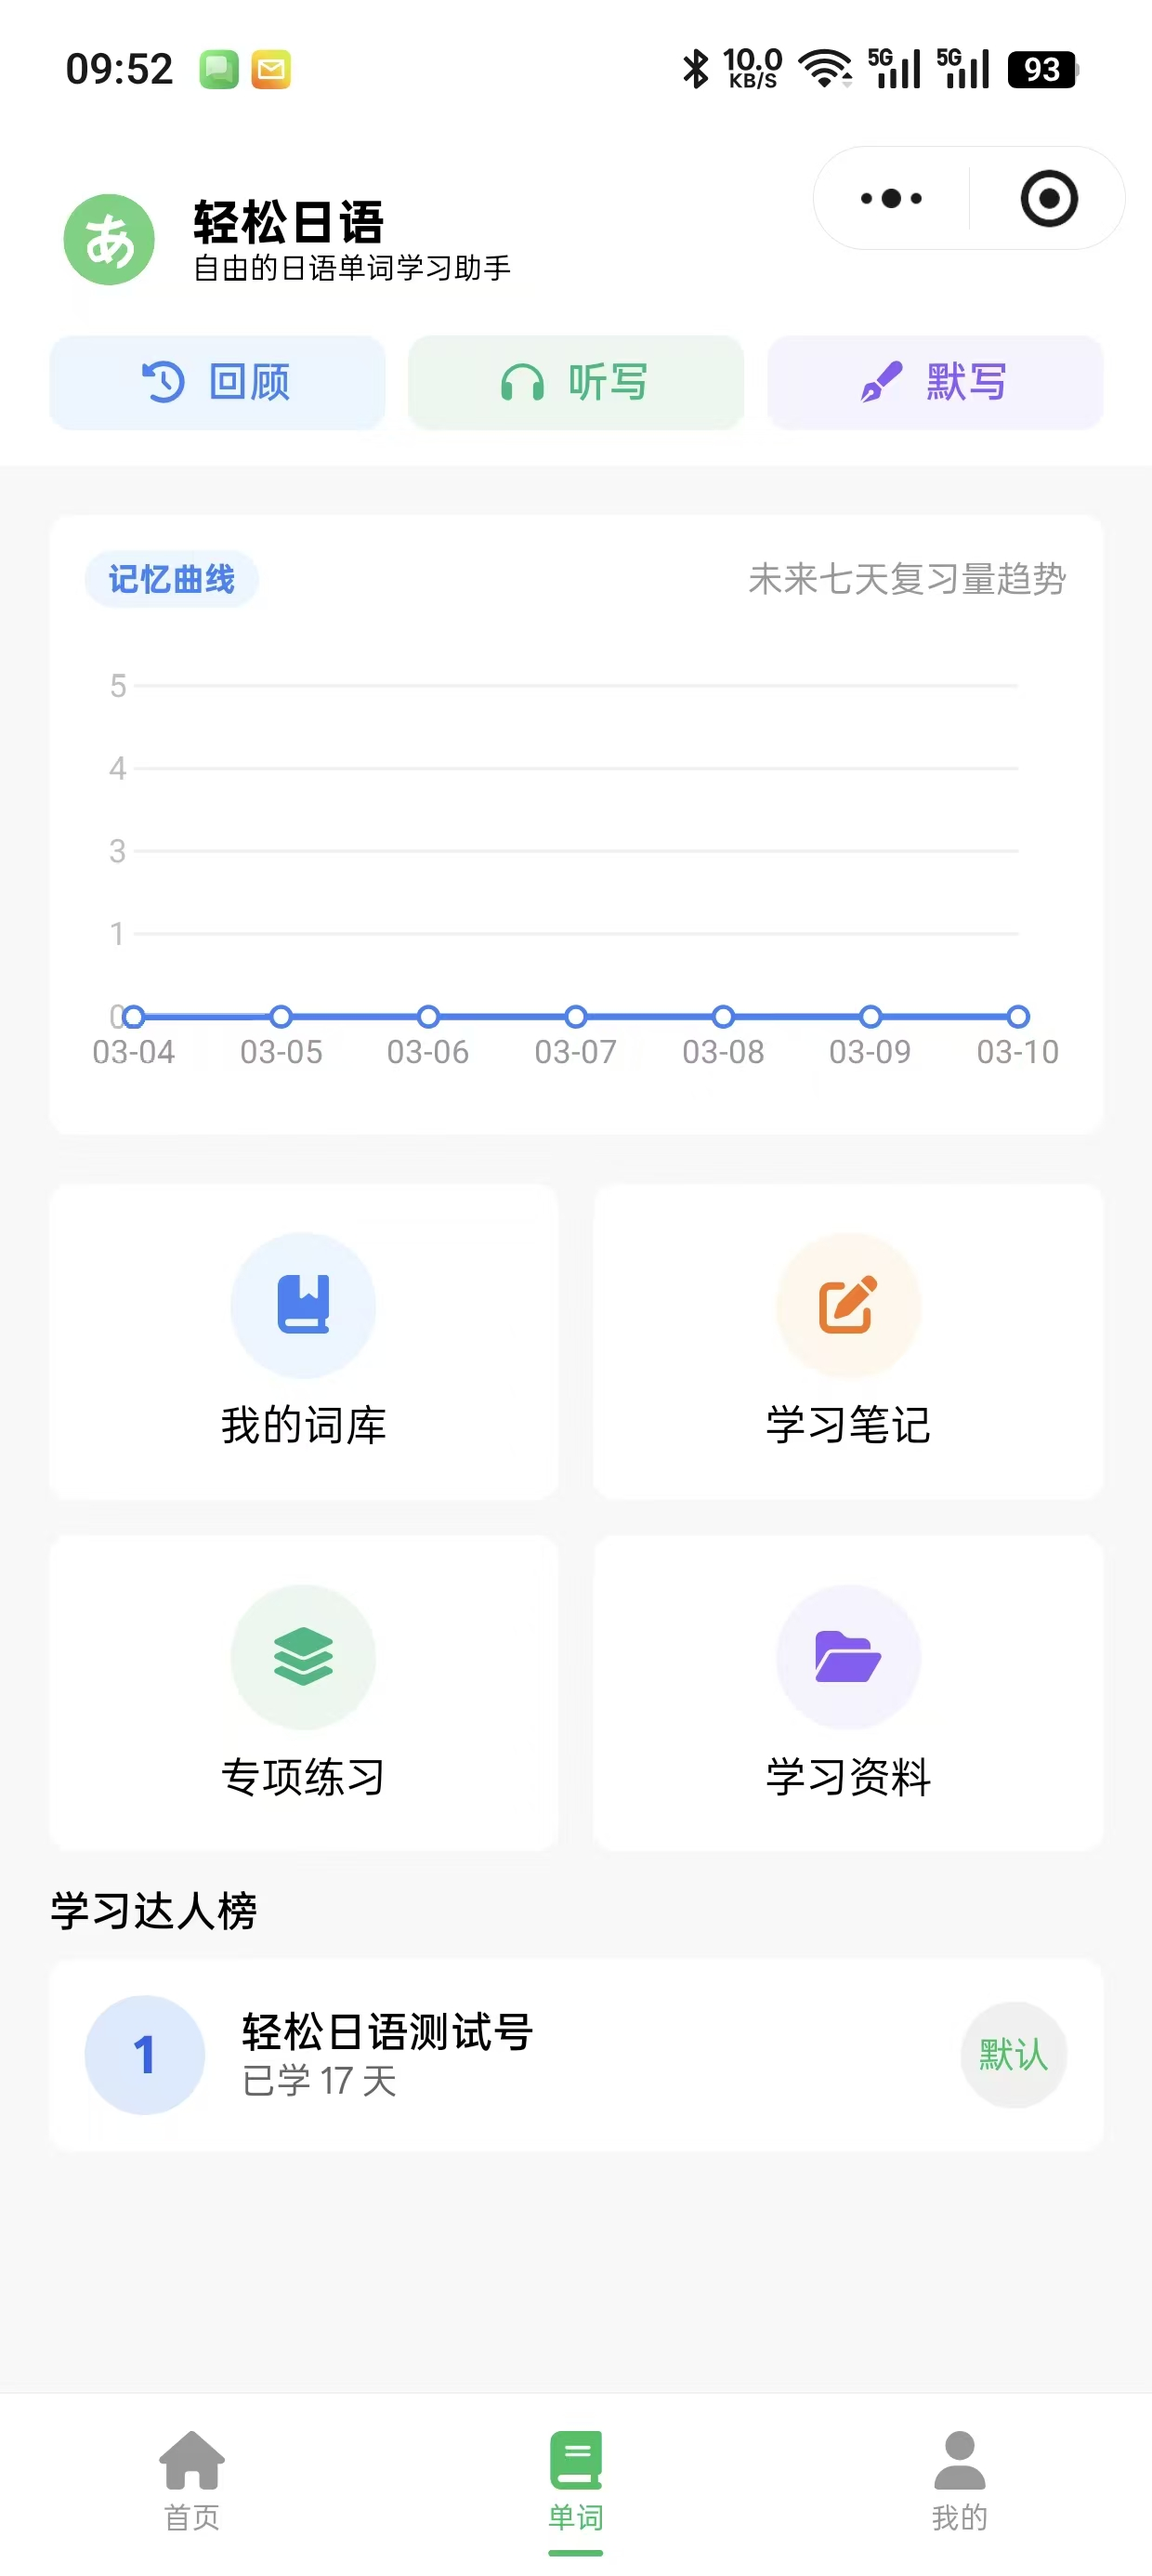
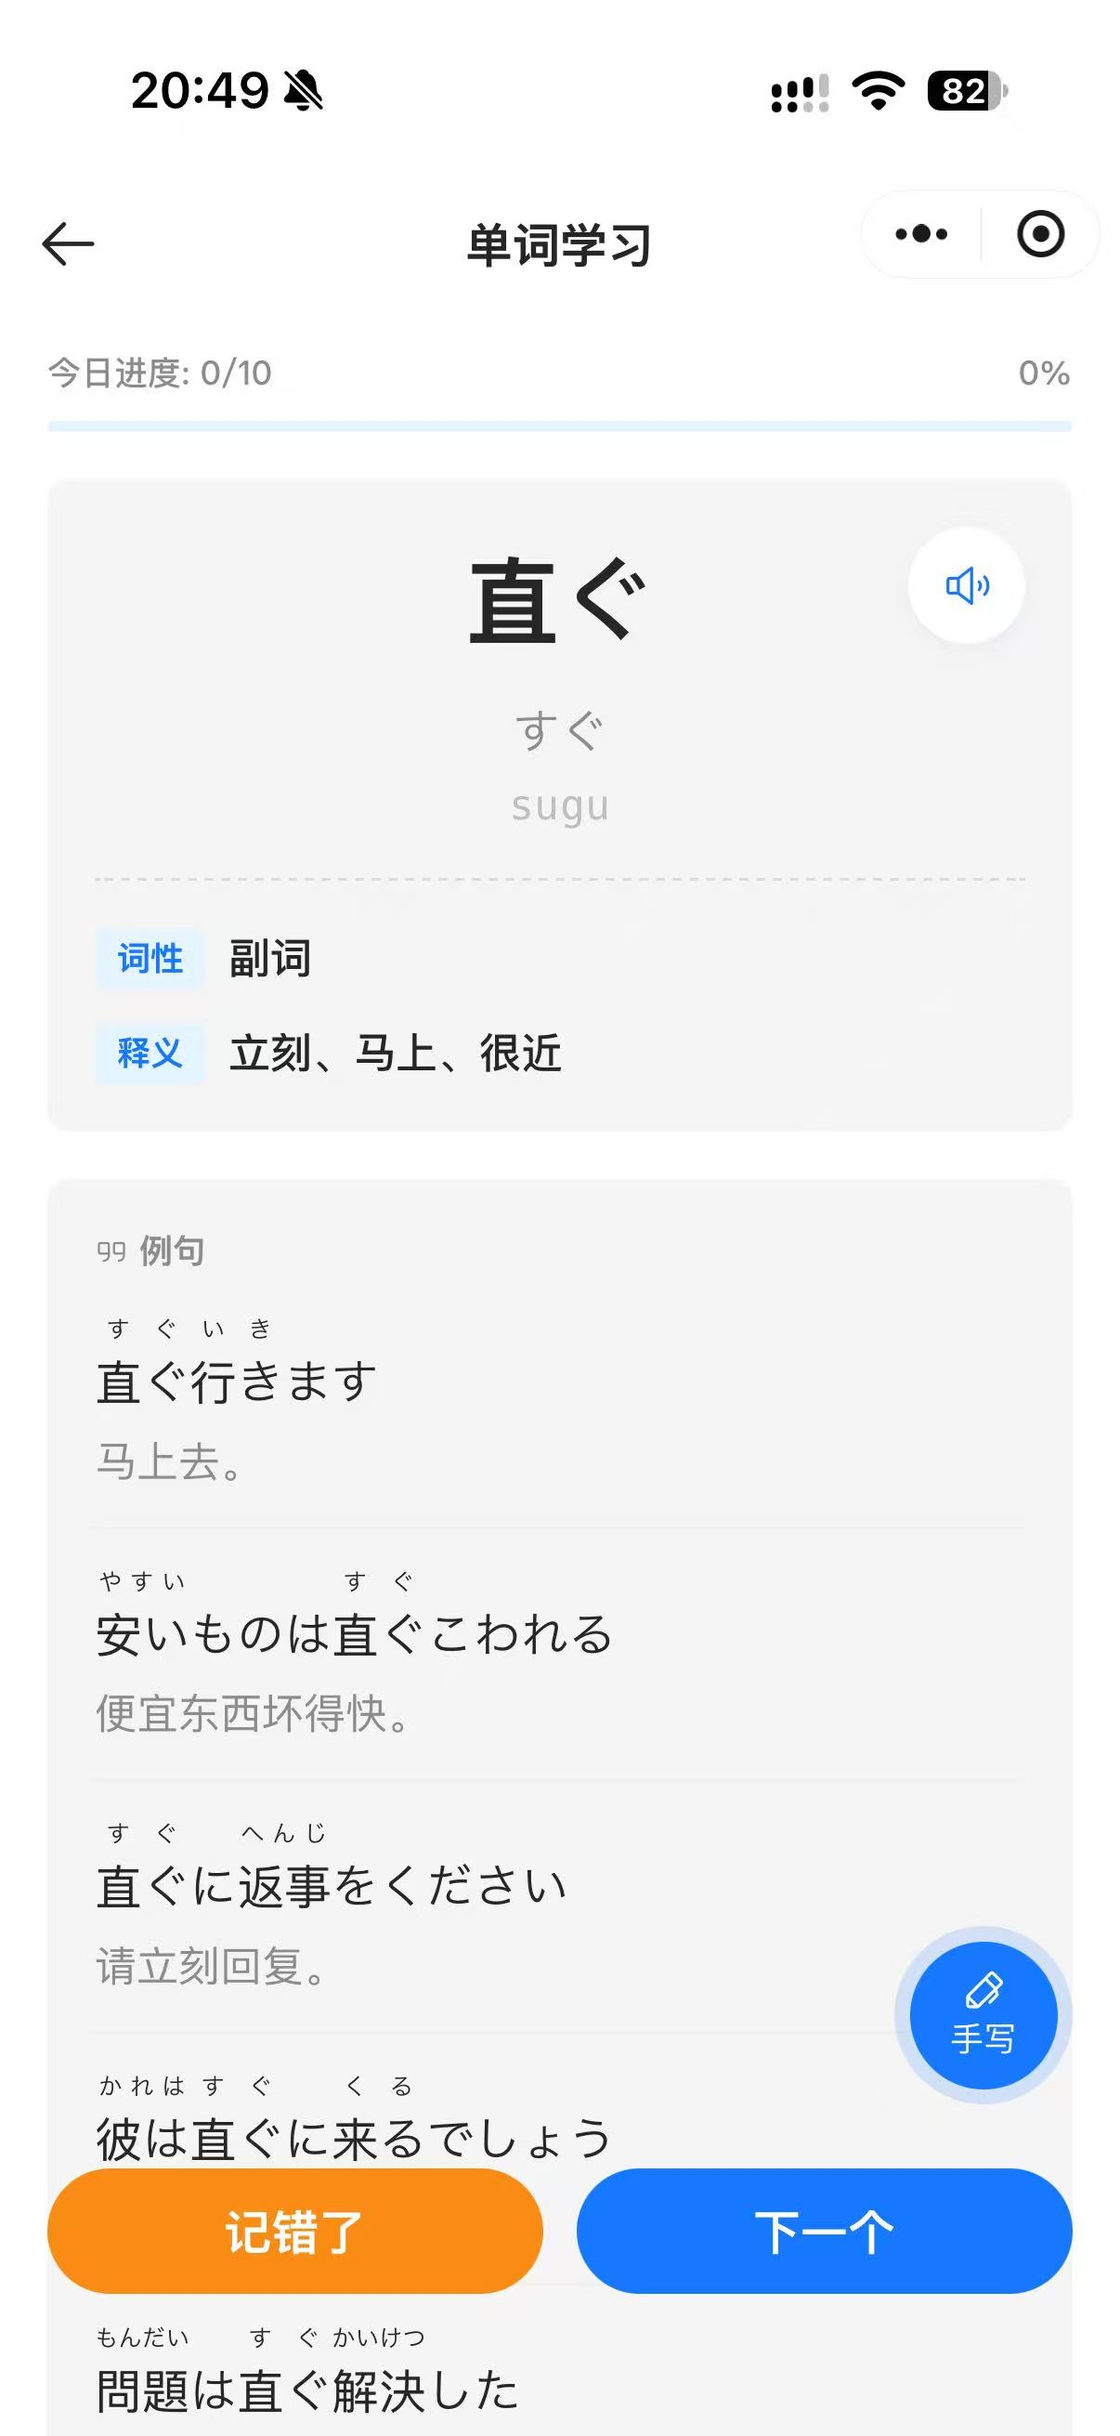
更新个人简历

diff --git a/.dumirc.ts b/.dumirc.ts
@@ -11,26 +11,25 @@ export default defineConfig({
     socialLinks: {
       github: 'https://github.com/x2ink',
     },
-    nav: [
-      {
-        title: '博客',
-        link: '/blogs'
-      },
-      {
-        title: '产品',
-        link: '/product'
-      }
+    nav: [{
+      title: '简历',
+      link: '/vitae'
+    }
+      , {
+      title: '作品',
+      link: '/opus'
+    },
+    {
+      title: '博客',
+      link: '/blogs'
+    },
+    {
+      title: '产品',
+      link: '/product'
+    }
     ]
   },
 })
   ;
 
 
-// {
-//   title: '简历',
-//   link: '/vitae'
-// }
-// , {
-//   title: '作品',
-//   link: '/opus'
-// }, 

diff --git a/docs/vitae/index.md b/docs/vitae/index.md
@@ -12,11 +12,11 @@ title: 软件工程师
 - **毕业院校**: 安徽理工大学（本科）
 - **所学专业**: 数字媒体技术
 - **获得证书**: 大学英语四级，大学日语四级
-- **求职意向**: 前端开发工程师、Android 开发工程师
+- **求职意向**: 软件开发工程师、前端开发工程师、Android 开发工程师
 
 ## 个人简介
 
-&nbsp;&nbsp;&nbsp;&nbsp;&nbsp;&nbsp;数字媒体技术专业本科毕业，专注于前端与移动端应用开发。具备扎实的计算机科学基础，精通 Vue、React、Uniapp 等主流前端框架，能够高效构建响应式网页及小程序。同时拥有 Android 原生（Java/Kotlin）开发能力，熟悉 Android 四大组件与系统底层机制，擅长“原生 + H5”混合开发及跨端解决方案。具备良好的工程化思维与代码规范，熟练使用 Git 进行团队协作，学习能力强，能够快速适应新技术栈，致力于打造极致的用户体验。
+&nbsp;&nbsp;&nbsp;&nbsp;&nbsp;&nbsp;数字媒体技术专业本科毕业，专注于前端与移动端应用开发。具备扎实的计算机科学基础，熟悉 Vue、React、Uniapp 等主流前端框架，能够高效构建响应式网页及小程序。同时拥有 Android 原生（Java/Kotlin）开发能力，熟悉 Android 四大组件与系统底层机制，擅长“原生 + H5”混合开发及跨端解决方案。具备良好的工程化思维与代码规范，熟练使用 Git 进行团队协作，学习能力强，能够快速适应新技术栈，致力于打造极致的用户体验。
 
 ## 专业技能
 
@@ -24,15 +24,16 @@ title: 软件工程师
 - 掌握 JavaScript，理解原型，闭包，异步等概念，熟练使用 ES6+ 语法，熟悉常用设计模式。
 - 掌握 Vue、React、Uniapp、Jquery 进行项目开发，会使用 CSS 预处理语言及相关技术栈。
 - 熟悉使用 Bootstrap、Element、AntDesign、uView 等组件库，高效构建用户界面。
-- 熟悉 Android 系统控件及自定义控件，熟悉 MVC，MV，MVVM 等设计模式，理解 Android 四大组件、生命周期、消息机制、多线程开发等；具有扎实的 Java/Kotlin 语言基础。
+- 熟悉 Android 应用开发，掌握 Activity、Service、BroadcastReceiver 等常用组件及生命周期、消息机制、多线程开发，具备扎实的 Java/Kotlin 基础。
+- 熟悉 MVVM、MVI、Clean Architecture 等常用 Android 架构模式，了解分层设计、模块化开发、Repository、UseCase 等常见设计方式，能够根据项目规模进行合理的代码结构设计。
+- 熟悉 Android 音视频开发，具备 Media3、ExoPlayer 等媒体框架的实际开发经验，了解 AudioRecord、AudioTrack 等音频采集与播放相关 API。
 - 掌握 WebView 与 Native 通信机制 (JSBridge)，具备使用 uniapp 进行跨端开发的能力；熟练掌握 Git 版本管理具备团队协作开发的能力。
-- 熟练使用 Android Studio、VS Code、Chrome DevTools、Postman、Proxyman 等各种主流工具开发与调试。
 
 ## 工作经历
 
 ### 墨墨无闻（安徽）科技有限公司 - Python 兼职
 
-**2023 年 11 月-2024 年 6 月**
+**2023 年 11 月 - 2024 年 6 月**
 
 - 使用 Python 爬虫对目标网站数据进行爬取，并将处理后的数据存储在数据库中。
 - 使用 Selenium 实现自动化爬取网站数据。
@@ -41,12 +42,18 @@ title: 软件工程师
 
 ### 上海万笔千墨科技有限公司 - 软件工程师
 
-**2024 年 10 月-至今**
+**2024 年 7 月 - 2026 年 3 月**
 
 - 主要负责开发微信小程序，网页，App 等前端工作。
 - 使用 android 独立完成一体机 App 的开发与维护。
 - 使用 uniapp，vue，react 等框架完成微信小程序，网页的开发与维护。
 - 使用 mysql，linux 等技术对测试工作的支持。
+
+### 上海极豆科技有限公司 - 安卓开发工程师
+
+**2026 年 4 月 - 至今**
+
+- 负责智能座舱车机应用的研发，负责车机媒体生态、系统级应用（Launcher / 语音助手）的研发，以及网易云音乐、QQ 音乐、Spotify、小红书、腾讯导航等第三方服务的车机集成适配。
 
 ## 自我评价
 

diff --git a/docs/index.md b/docs/index.md
@@ -202,10 +202,8 @@ features: []
   width: 80px;
   height: 80px;
   border-radius: 20px;
+  overflow: hidden;
   margin-bottom: 24px;
-  background: white;
-  padding: 10px;
-  box-sizing: border-box;
   animation: float 6s ease-in-out infinite;
   box-shadow: 0 10px 20px rgba(0,0,0,0.05);
 }
@@ -328,12 +326,12 @@ features: []
     <div class="product-showcase">
       <div class="product-content">
         <div class="product-logo">
-          <img src="/other/easyjapanese.png" style="width: 100%; height: 100%; object-fit: contain;" alt="logo" />
+          <img src="/easyjapanese/easyjapanese.png" style="width: 100%; height: 100%;" alt="logo" />
         </div>
-        <div class="product-title">轻松日语</div>
+        <div class="product-title">随身日语</div>
         <div class="product-desc">
-          专注于日语单词学习与记忆的微信小程序。<br>
-          抛弃繁杂的功能，回归语言学习的本质，力求打造最自由、最轻量的日语词典体验。
+          专注于日语学习与单词记忆的微信小程序。<br>
+          抛弃繁杂的功能，回归语言学习的本质，力求打造最自由、最轻量的日语学习体验。
         </div>
         <a href="/opus/easyjapanese" class="product-btn">
           立即体验
@@ -342,10 +340,10 @@ features: []
       </div>
       <div class="product-visual">
         <div class="phone-mockup phone-secondary">
-           <img src="/easyjapanese/2.jpg" alt="App Screenshot 2">
+           <img src="/easyjapanese/2.png" alt="App Screenshot 2">
         </div>
         <div class="phone-mockup phone-primary">
-           <img src="/easyjapanese/1.jpg" alt="App Screenshot 1">
+           <img src="/easyjapanese/1.png" alt="App Screenshot 1">
         </div>
       </div>
     </div>

diff --git a/docs/product/user_agreement.md b/docs/product/user_agreement.md
@@ -1,6 +1,6 @@
 # 用户服务条款
 
-欢迎使用“轻松日语”应用程序（以下简称“本应用”）。在注册、登录、访问或使用本应用提供的服务前，请您务必仔细阅读并充分理解本《用户服务条款》。如您不同意本条款的任意内容，请您立即停止使用本应用；您一旦开始使用，即视为您已阅读、理解并同意本条款。
+欢迎使用“随身日语”应用程序（以下简称“本应用”）。在注册、登录、访问或使用本应用提供的服务前，请您务必仔细阅读并充分理解本《用户服务条款》。如您不同意本条款的任意内容，请您立即停止使用本应用；您一旦开始使用，即视为您已阅读、理解并同意本条款。
 
 ## 一、服务内容
 
@@ -45,7 +45,7 @@
 
 # 隐私政策
 
-本隐私协议旨在说明“轻松日语”如何收集、使用、存储与保护您的信息。本应用严格遵守国家法律法规，尽力保障用户隐私与数据安全。
+本隐私协议旨在说明“随身日语”如何收集、使用、存储与保护您的信息。本应用严格遵守国家法律法规，尽力保障用户隐私与数据安全。
 
 ## 一、收集的信息范围
 

diff --git a/docs/product/read_agreement.md b/docs/product/read_agreement.md
@@ -2,7 +2,7 @@
 
 > 生效日期：2025 年 11 月 29 日
 
-欢迎使用“轻松日语”提供的语音录制、上传与日语跟读功能（下称**“本功能”**）。为保障用户及平台权益、遵守中国大陆地区相关法律法规，请在使用前认真阅读并充分理解本协议全部条款，特别是以 **标红或加粗** 形式提示的重要内容。
+欢迎使用“随身日语”提供的语音录制、上传与日语跟读功能（下称**“本功能”**）。为保障用户及平台权益、遵守中国大陆地区相关法律法规，请在使用前认真阅读并充分理解本协议全部条款，特别是以 **标红或加粗** 形式提示的重要内容。
 
 ---
 

diff --git a/docs/opus/easyjapanese.md b/docs/opus/easyjapanese.md
@@ -1,4 +1,4 @@
-# 轻松日语
+# 随身日语
 
 ## 体验地址
 
@@ -11,8 +11,8 @@
 ## 作品截图
 
 <div style="display: grid; grid-template-columns: repeat(4, 1fr); gap: 10px; width: 100%;">
-    <img src="/easyjapanese/1.jpg" alt="" style="width: 100%; height: auto;">
-    <img src="/easyjapanese/2.jpg" alt="" style="width: 100%; height: auto;">
+    <img src="/easyjapanese/1.png" alt="" style="width: 100%; height: auto;">
+    <img src="/easyjapanese/2.png" alt="" style="width: 100%; height: auto;">
     <img src="/easyjapanese/3.jpg" alt="" style="width: 100%; height: auto;">
     <img src="/easyjapanese/4.jpg" alt="" style="width: 100%; height: auto;">
 </div>

diff --git a/docs/opus/other.md b/docs/opus/other.md
@@ -15,3 +15,9 @@
 **技术框架**：React18，Ant Design
 
 **作品介绍**：这是一个公司内部的管理平台，接手前同事的项目，主要查看和修改公司各种产品数据等。
+
+### 语音助手
+
+**技术框架**：Android，Kotlin，Clean Architecture
+
+**作品介绍**：一个汽车智能座舱语音助手应用，覆盖唤醒 → ASR → 意图识别 → 对话管理/卡片展示 → Agent 执行的完整车载语音交互。

diff --git a/docs/opus/index.md b/docs/opus/index.md
@@ -5,7 +5,7 @@
 # 目录
 
 - [小二云盘](/opus/x2pan)
-- [轻松日语](/opus/easyjapanese)
+- [随身日语](/opus/easyjapanese)
 - [安徽理工大学现代教育技术部门官网](/opus/aust)
 - [笔墨 AI 拍照机](/opus/bimoaicamera)
 - [笔墨 AI](/opus/bimoaiconsole)

diff --git a/docs/vitae/plan.md b/docs/vitae/plan.md
@@ -7,6 +7,6 @@
 
 ## 短期计划
 
-> - [ ] 完成“轻松日语”小程序的开发
+> - [ ] 完成“随身日语”小程序的开发
 > - [ ] 学习 kotlin
 > - [ ] 系统性复习前端，Android

diff --git a/docs/product/index.md b/docs/product/index.md
@@ -1,0 +1,8 @@
+# 简介
+
+自研产品相关文档
+
+# 目录
+
+- [用户服务条款](/product/user_agreement)
+- [用户语音上传与跟读功能使用协议](/product/read_agreement)
